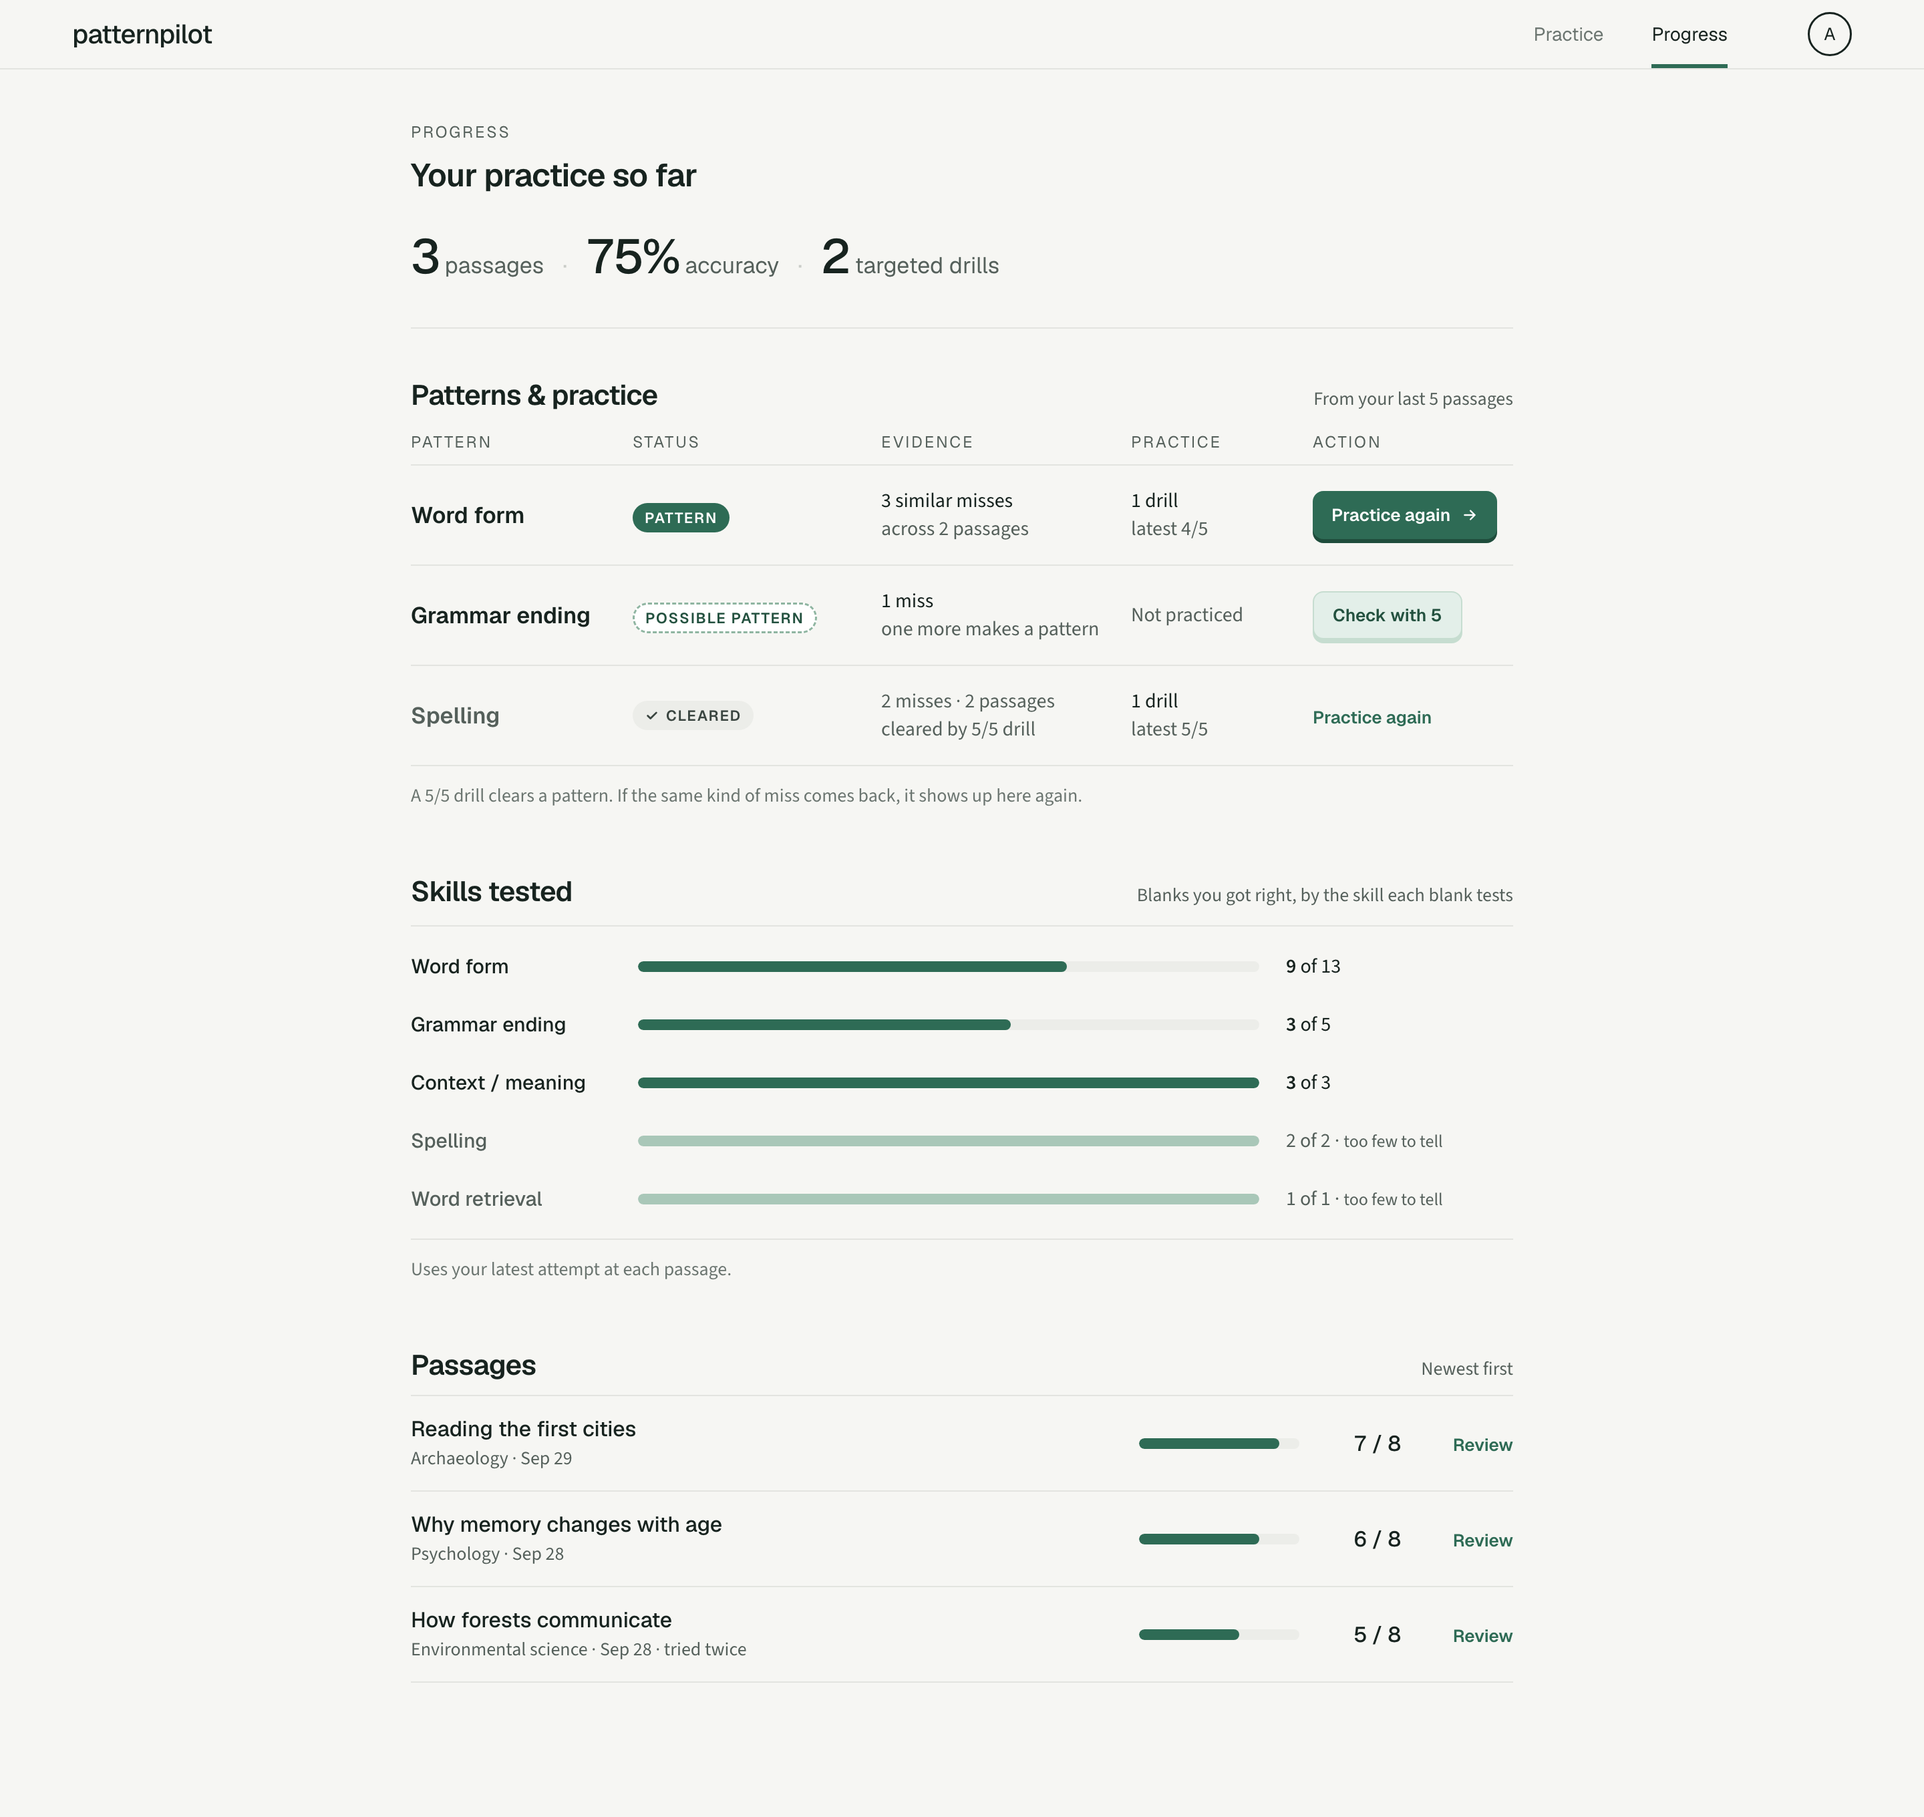
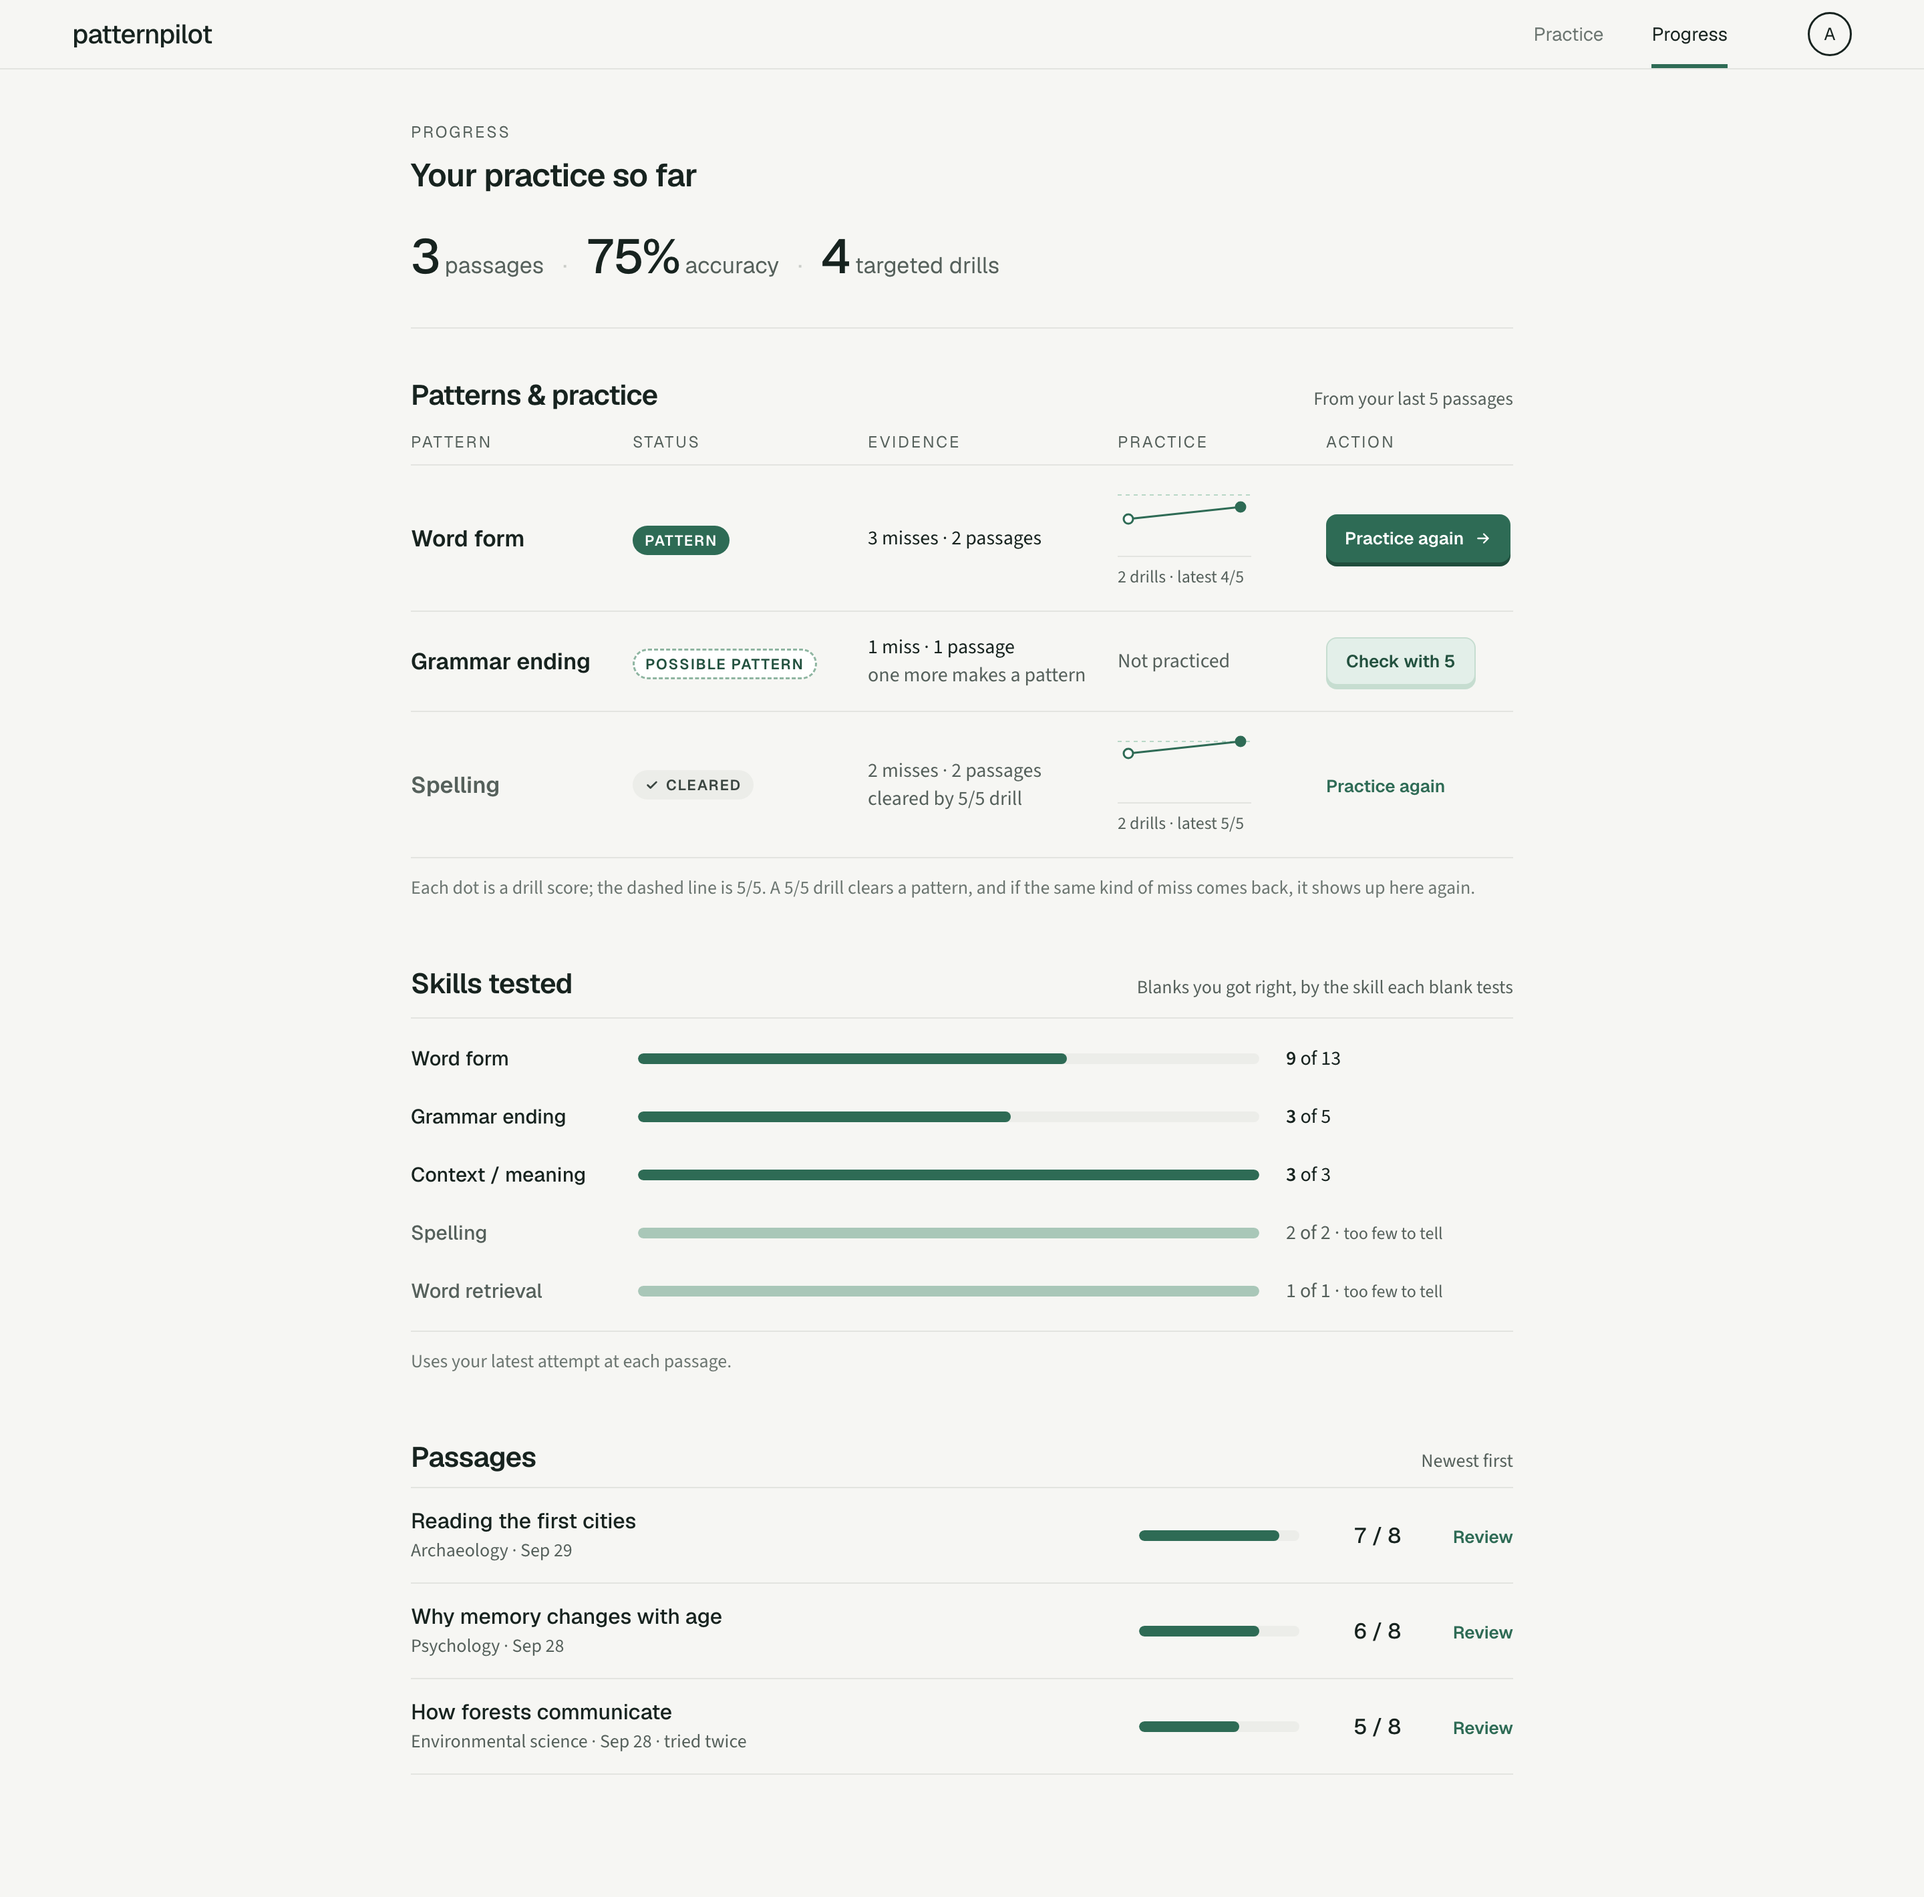
docs: Progress drill-score line charts and shorter evidence copy

diff --git a/docs/product.md b/docs/product.md
@@ -190,11 +190,11 @@ Check the rules in the order shown. The first match wins.
 
 **4. Progress** (see `docs/design/08-progress.png`)
 Order: summary → Patterns & practice → Skills tested → Passages. Calm and editorial: section headings with thin rules, no KPI cards, no passage chart. Never TOEFL-scaled. Everything uses the **latest attempt per distinct passage**, as in pattern detection.
-- **Summary line:** `3 passages · 75% accuracy · 2 targeted drills` (large numbers, small words, one line). Accuracy = correct blanks ÷ all blanks, latest attempt per passage, rounded to a whole percent.
+- **Summary line:** `3 passages · 75% accuracy · 4 targeted drills` (large numbers, small words, one line). Accuracy = correct blanks ÷ all blanks, latest attempt per passage, rounded to a whole percent.
 - **Patterns & practice** (the learner's *mistake types*, last 5 passages). Columns: *Pattern · Status · Evidence · Practice · Action*. One row per category that has at least one miss in the window, or that was cleared by a drill. Order: Pattern, then Possible pattern, then Cleared; within a status, by miss count, then most recent.
   - **Status:** *Pattern* (2+ active misses; solid green badge) · *Possible pattern* (1 active miss; dashed badge) · **Cleared** (a 5/5 drill cleared its misses and no new miss has come since; gray badge with a check). No other labels.
-  - **Evidence:** `3 similar misses / across 2 passages`; possible: `1 miss / one more makes a pattern`; cleared: `2 misses · 2 passages / cleared by 5/5 drill`.
-  - **Practice:** `1 drill / latest 4/5`, or *Not practiced*.
+  - **Evidence:** `3 misses · 2 passages`; possible: `1 miss · 1 passage / one more makes a pattern`; cleared: `2 misses · 2 passages / cleared by 5/5 drill`.
+  - **Practice:** a small line chart of that pattern's drill scores in order (100×56px, y = 0–5, dashed line at 5/5; hollow dots, the latest one filled), with `2 drills · latest 4/5` under it. One drill = a single dot. Never drilled = *Not practiced*, no chart. The footnote explains the chart: *"Each dot is a drill score; the dashed line is 5/5."*
   - **Action:** Pattern = primary **Practice again →** (or **Practice →** if never drilled); Possible = retry-style **Check with 5**; Cleared = text link *Practice again*. Only one primary button on the page.
   - Footnote: *"A 5/5 drill clears a pattern. If the same kind of miss comes back, it shows up here again."*
 - **Skills tested** (the *skills the blanks test*, from each blank's `errorCategory`; kept separate from mistake types on purpose). One row per skill: name, a thin green bar, `9 of 13`. Sorted by number of blanks. A skill with fewer than 3 blanks gets a pale bar and *"too few to tell"*. No percentages.
